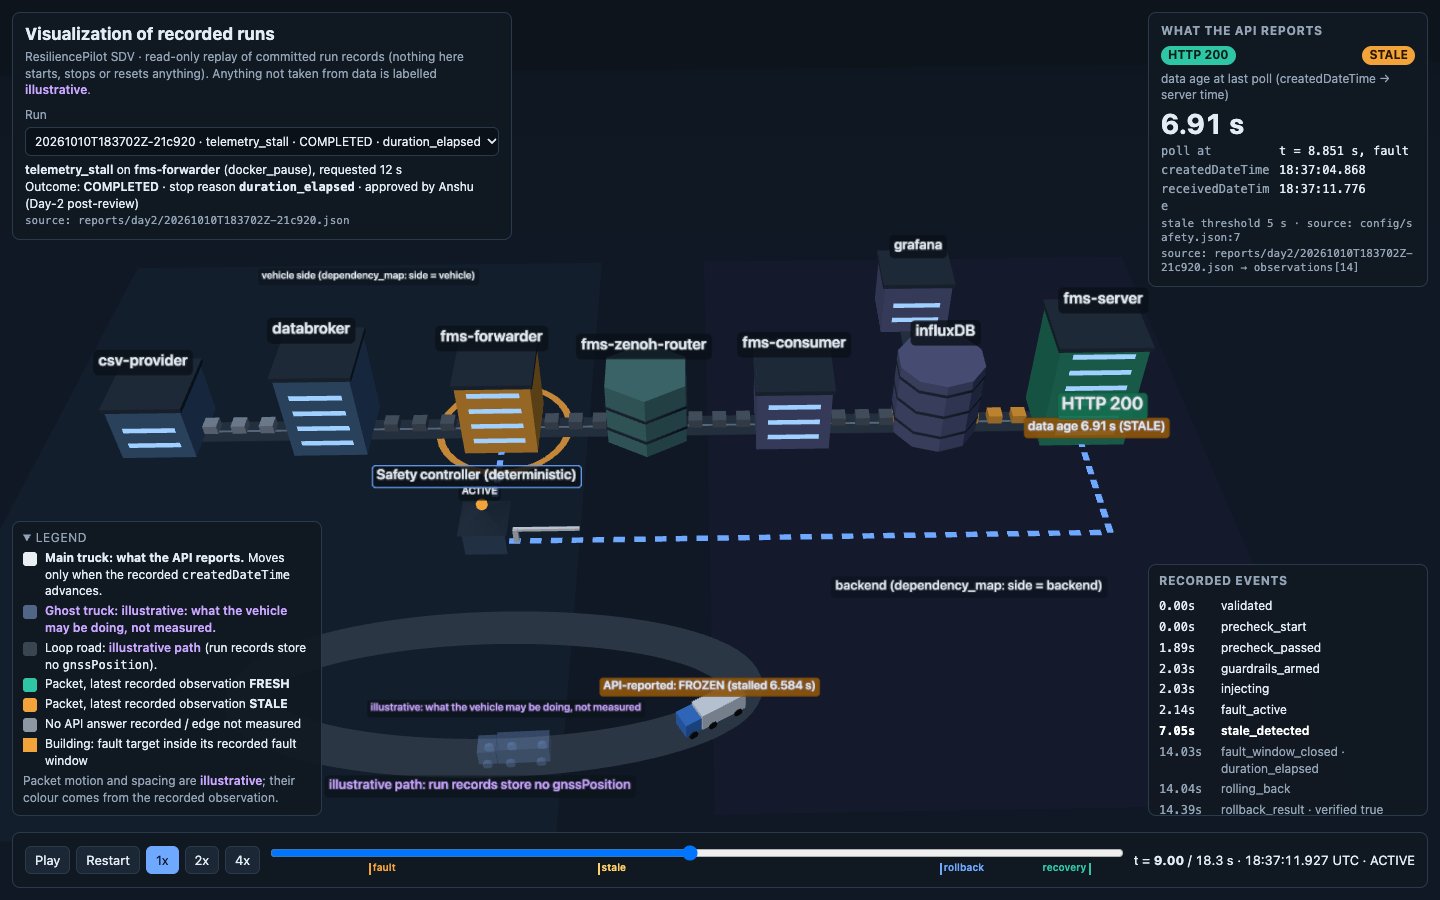
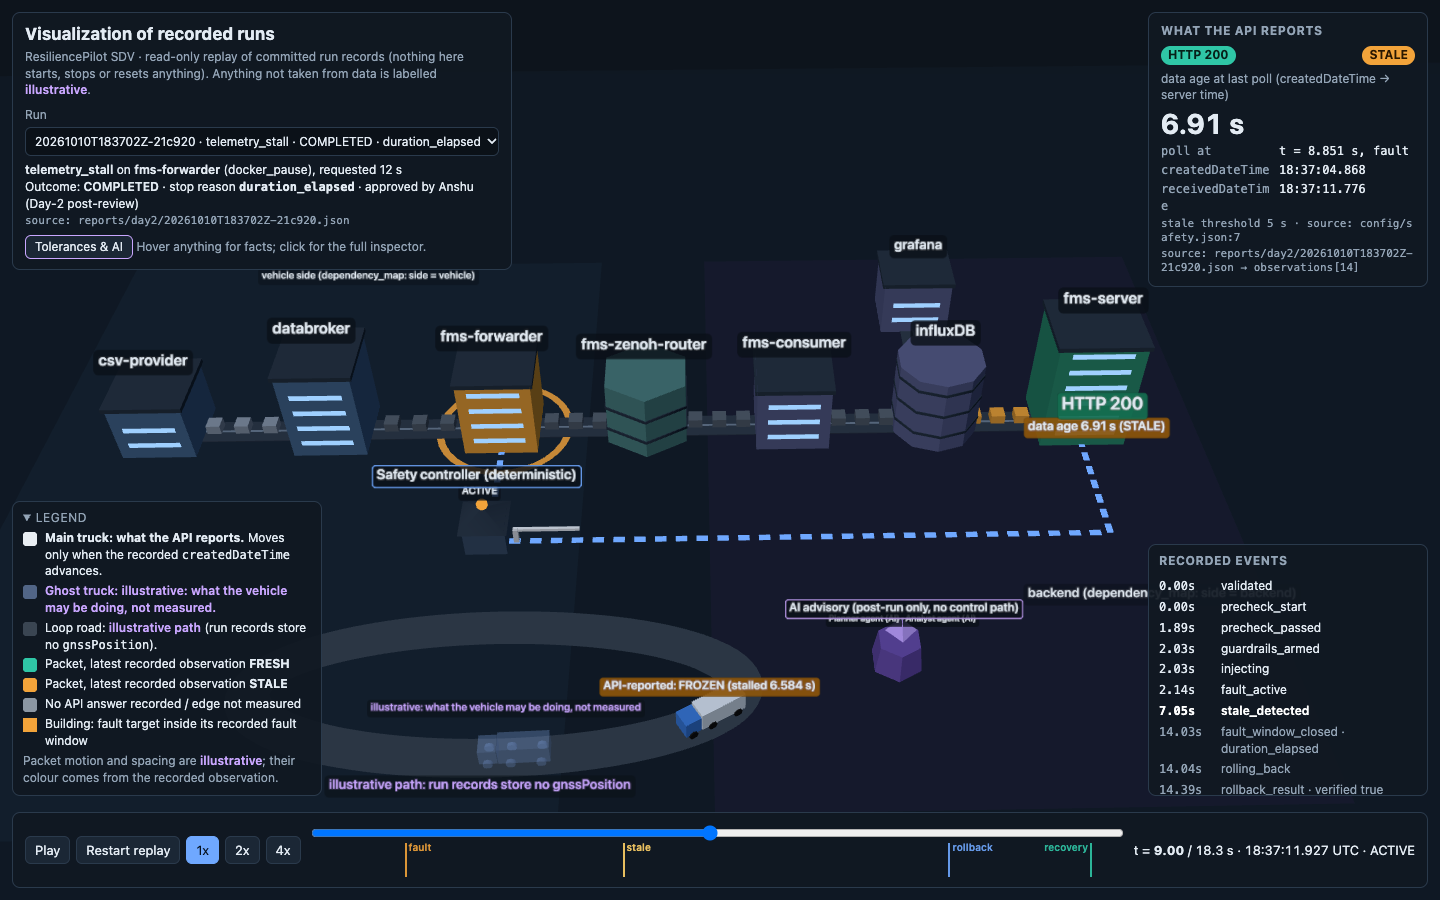
Scene: portrait/phone framing and distance-scaled fog; 390 px screenshot

Changed region(s): [[0.0, 0.56, 1.0, 0.9956], [0.0312, 0.2489, 0.2812, 0.28], [0.6875, 0.4356, 0.7188, 0.4667]]

diff --git a/docs/scene/index.html b/docs/scene/index.html
@@ -71,12 +71,12 @@ html, body { margin: 0; height: 100%; background: var(--bg); color: var(--text);
 #nogl a { color: var(--accent); }
 @media (max-width: 900px) {
   #legend, #events { display: none; }
-  #api { top: auto; bottom: 128px; left: 12px; right: 12px; width: auto; }
+  #api { top: auto; bottom: 172px; left: 12px; right: 12px; width: auto; }
   #api .kv, #api .src { display: none; }
   #api .big { font-size: 20px; }
   #top .sub, #runmeta .src { display: none; }
   #tl { grid-template-columns: 1fr; gap: 4px; }
-  #panel { bottom: 128px; }
+  #panel { bottom: 172px; }
 }
 </style>
 </head>
@@ -405,6 +405,7 @@ function applyCam() {
   camera.position.set(cam.target.x + cam.r * Math.sin(cam.phi) * Math.sin(cam.theta), cam.r * Math.cos(cam.phi),
     cam.target.z + cam.r * Math.sin(cam.phi) * Math.cos(cam.theta));
   camera.lookAt(cam.target);
+  scene.fog.near = cam.r + 20; scene.fog.far = cam.r + 130;
 }
 let drag = null;
 canvas.addEventListener("pointerdown", (e) => { drag = { x: e.clientX, y: e.clientY, moved: false }; });
@@ -419,7 +420,7 @@ window.addEventListener("pointermove", (e) => {
 canvas.addEventListener("wheel", (e) => { e.preventDefault(); cam.r *= e.deltaY > 0 ? 1.08 : 0.93; applyCam(); }, { passive: false });
 function resize() {
   const w = window.innerWidth, h = window.innerHeight; renderer.setSize(w, h, false); camera.aspect = w / h;
-  if (w < 700) cam.r = Math.max(cam.r, 160);
+  if (w / h < 1.4) cam.r = Math.max(cam.r, Math.min(220, 108 * 1.5 / (w / h)));
   camera.updateProjectionMatrix(); applyCam();
 }
 window.addEventListener("resize", resize);
